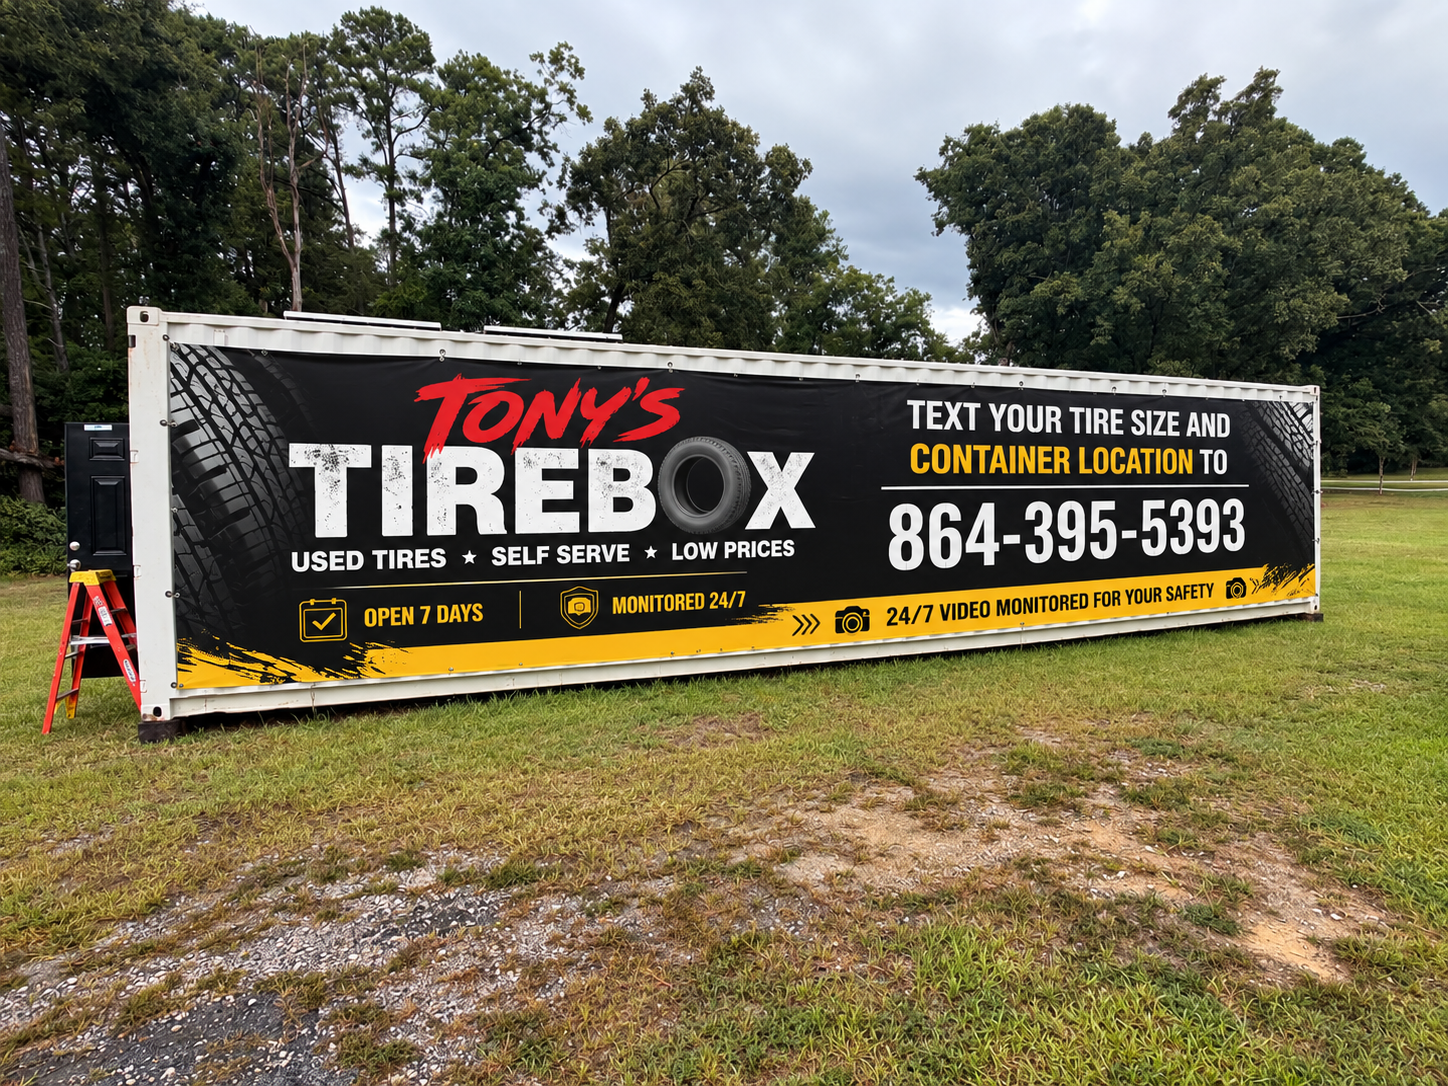
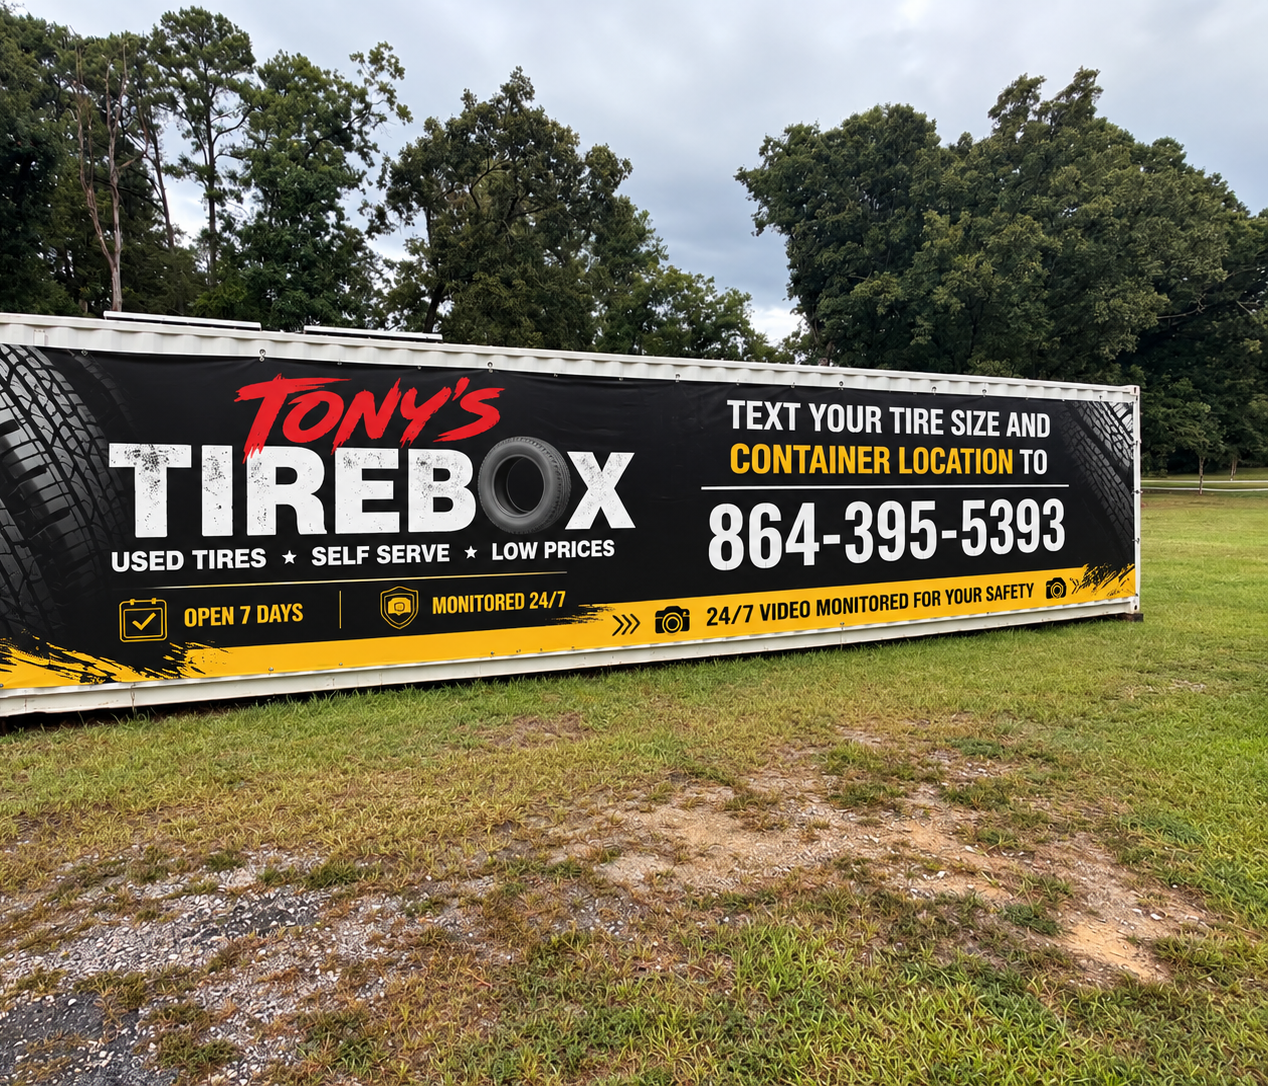
Update Aiken with storage unit photo and crop ladder out of Fountain Inn container photo per client instructions

diff --git a/tonys-tires/src/data/inventory.ts b/tonys-tires/src/data/inventory.ts
@@ -24,7 +24,7 @@ export interface TireItem {
 export const LOCATIONS: Location[] = [
   { id: 'greer', name: 'Greer', address: '3574 Brown Rd, Greer, SC 29651', phone: '864-395-5393', hours: '8:00 AM - 8:00 PM', isPopular: true, image: '/container_greer.png' },
   { id: 'greenville', name: 'Greenville', address: '2490 New Easley Hwy, Greenville, SC 29611', phone: '864-395-5393', hours: '8:00 AM - 8:00 PM', isPopular: true, image: '/container_greer.png' },
-  { id: 'aiken', name: 'Aiken', address: '1693 Edgefield Hwy, Aiken, SC 29801', phone: '864-395-5393', hours: '8:00 AM - 8:00 PM', image: '/container_fountain_inn.png' },
+  { id: 'aiken', name: 'Aiken', address: '1693 Edgefield Hwy, Aiken, SC 29801', phone: '864-395-5393', hours: '8:00 AM - 8:00 PM', image: '/container_aiken.png' },
   { id: 'fountain-inn', name: 'Fountain Inn', address: '2431 Greenpond Rd, Fountain Inn, SC 29644', phone: '864-395-5393', hours: '8:00 AM - 8:00 PM', isPopular: true, image: '/container_fountain_inn.png' },
   { id: 'little-river', name: 'Little River', address: '2329 Old Sanders Dr, Little River, SC 29566', phone: '864-395-5393', hours: '8:00 AM - 8:00 PM', image: '/container_little_river.png' },
   { id: 'longs', name: 'Longs', address: '1870 Hwy 9 East, Longs, SC 29568 (Tippy Toes RV)', phone: '864-395-5393', hours: '8:00 AM - 8:00 PM', image: '/container_little_river.png' },
